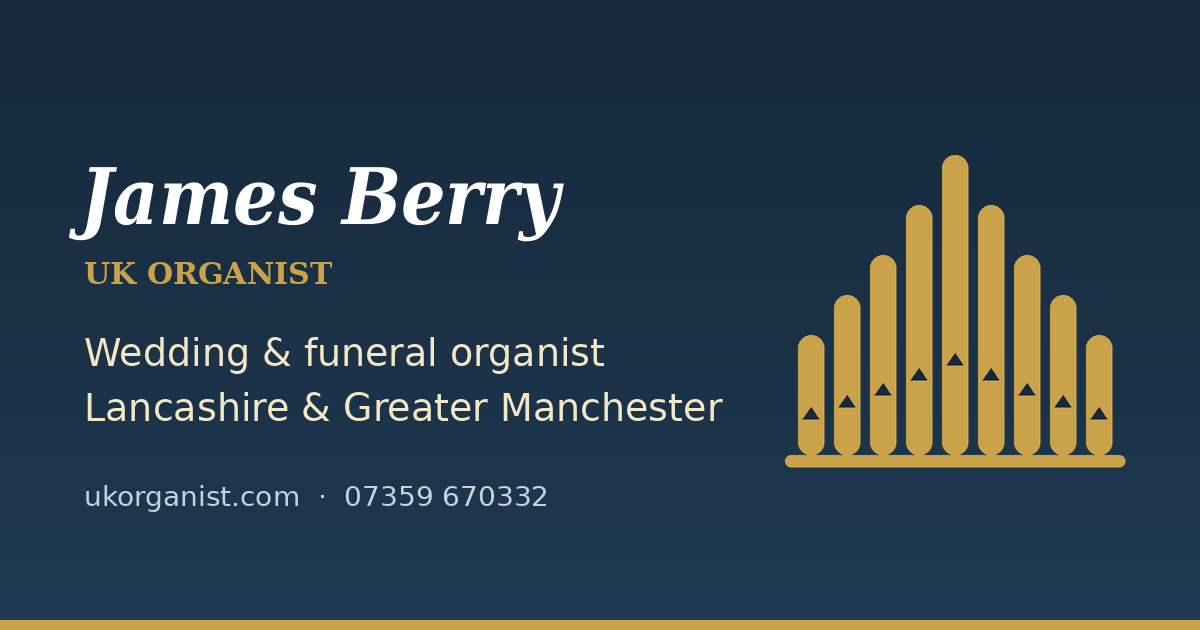
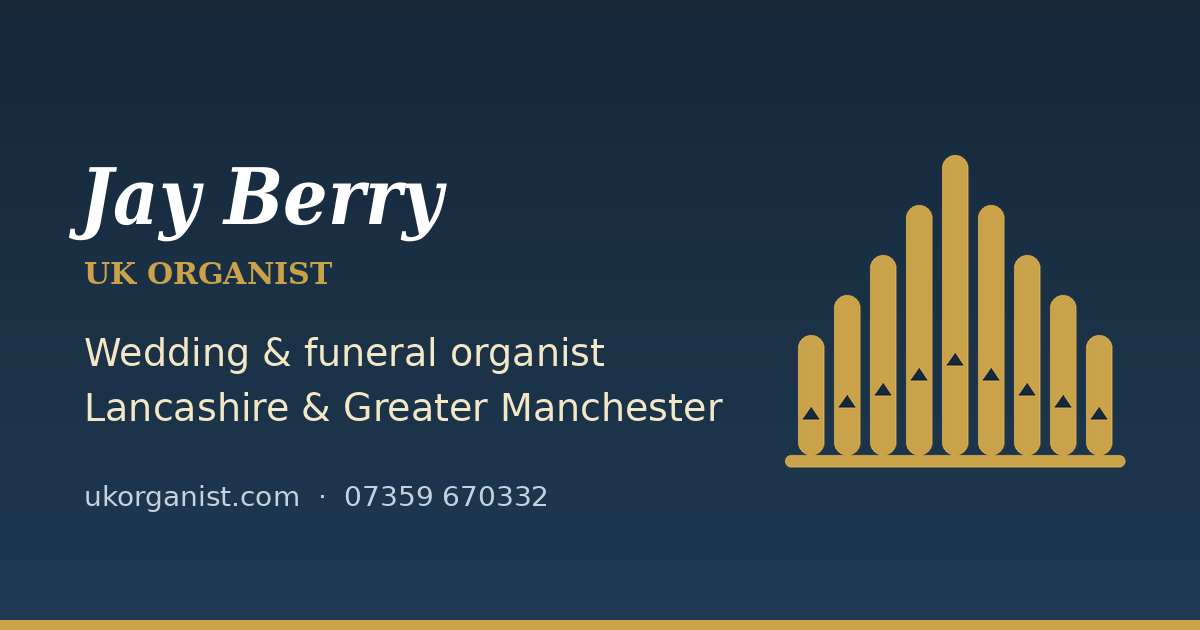
Use "Jay Berry" as the public name across the site
Customer-facing name changed from James to Jay everywhere (pages, menu,
schema, form messages, terms, social preview image) to match the email
signature and Google Business Profile. Phone stays 07359 670332 only.

Claude-Session: https://claude.ai/code/session_01FhjEBrdu82LaAVZ8G4aNxm

Changed region(s): [[0.1233, 0.2413, 0.4933, 0.3921]]

diff --git a/public/assets/site.js b/public/assets/site.js
@@ -17,7 +17,7 @@
 })();
 
 // Enquiry form. Each enquiry is sent to the "UKO Website Enquiries" Google Apps
-// Script (logs it in the UKO Enquiries sheet and emails James). "Send on WhatsApp"
+// Script (logs it in the UKO Enquiries sheet and emails Jay). "Send on WhatsApp"
 // also opens a ready-written WhatsApp message; if the script can't be reached,
 // "Send enquiry" falls back to opening the visitor's email app.
 (function () {
@@ -65,7 +65,7 @@
     if (!bad && form.elements.email.value && !form.elements.email.checkValidity()) bad = form.elements.email;
     if (bad) {
       var label = form.querySelector('label[for="' + bad.id + '"]').firstChild.textContent.trim();
-      show(bad.type === "email" ? "Please check your email address." : label + " is needed so James can check the date.", "error");
+      show(bad.type === "email" ? "Please check your email address." : label + " is needed so Jay can check the date.", "error");
       bad.focus();
       return;
     }
@@ -73,7 +73,7 @@
     var when = new Date(v("date") + "T12:00:00").toLocaleDateString("en-GB", { weekday: "long", day: "numeric", month: "long", year: "numeric" });
     var type = service.options[service.selectedIndex].text;
     var lines = [
-      "Hi James, I'd like to check your availability.",
+      "Hi Jay, I'd like to check your availability.",
       "",
       "Service: " + type,
       "Date: " + when + (v("time") ? " at " + v("time") : ""),
@@ -91,7 +91,7 @@
       // only allow this inside the click).
       send("WhatsApp").catch(function () {});
       window.open("https://wa.me/" + WA + "?text=" + encodeURIComponent(text), "_blank", "noopener");
-      show("Thank you — James has your enquiry. WhatsApp should also have opened with your message ready; press send there if you'd like to chat.", "success");
+      show("Thank you — Jay has your enquiry. WhatsApp should also have opened with your message ready; press send there if you'd like to chat.", "success");
       return;
     }
 
@@ -100,7 +100,7 @@
     send("Website")
       .then(function () {
         form.reset();
-        show("Thank you — your enquiry has been sent. James will be in touch soon, usually by phone or WhatsApp.", "success");
+        show("Thank you — your enquiry has been sent. Jay will be in touch soon, usually by phone or WhatsApp.", "success");
       })
       .catch(function () {
         var subject = type + " enquiry – " + when;

diff --git a/src/pages/index.html b/src/pages/index.html
@@ -1,5 +1,5 @@
 ---
-title: Wedding & Funeral Organist, Lancashire & Manchester | James Berry
+title: Wedding & Funeral Organist, Lancashire & Manchester | Jay Berry
 description: Professional church organist for weddings, funerals and services across Lancashire and Greater Manchester. 30+ years' experience, BBC Songs of Praise.
 nav: home
 ---
@@ -8,7 +8,7 @@ nav: home
     <div class="hero__copy">
       <p class="eyebrow">Organist for hire · Burnley · Blackburn · Bolton · Rochdale</p>
       <h1>Wedding &amp; Funeral Organist in Lancashire and Greater Manchester</h1>
-      <p class="lead">I'm James Berry, a professional church organist with over 30 years at the console. I play for weddings, funerals, memorial services, concerts and choral services — and I make sure the music is the part of the day nobody has to worry about.</p>
+      <p class="lead">I'm Jay Berry, a professional church organist with over 30 years at the console. I play for weddings, funerals, memorial services, concerts and choral services — and I make sure the music is the part of the day nobody has to worry about.</p>
       <div class="btns">
         <a class="btn btn--gold" href="/contact/">Check My Date</a>
         <a class="btn btn--outline-light" href="{{whatsapp}}">WhatsApp {{phone}}</a>
@@ -55,11 +55,11 @@ nav: home
 <section class="section section--mist">
   <div class="wrap split">
     <div>
-      <p class="eyebrow">Why book James</p>
+      <p class="eyebrow">Why book Jay</p>
       <h2>An experienced organist who knows how a service runs</h2>
       <p>Since my first church appointment in 1993, I've played for weddings, funerals and every kind of church service. I've been Organist and Choir Master at St John the Evangelist, Worsthorne, near Burnley, since 2007, and I've appeared on BBC's <em>Songs of Praise</em> and accompanied Choral Evensong at Blackburn Cathedral.</p>
       <p>That experience matters on the day: I arrive early, get to know the instrument, follow the clergy's cues and adapt if the bride is late or the hymns need an extra verse.</p>
-      <a class="text-link" href="/about/">Read more about James &rarr;</a>
+      <a class="text-link" href="/about/">Read more about Jay &rarr;</a>
     </div>
     <ul class="ticks">
       <li><strong>Reliable cover.</strong> If I'm ever ill, I arrange a competent deputy — or you get a full refund.</li>

diff --git a/src/pages/website-terms-of-use.html b/src/pages/website-terms-of-use.html
@@ -1,6 +1,6 @@
 ---
 title: Website Terms of Use | UK Organist
-description: The terms that apply when you browse and use ukorganist.com, the website of UK Organist Limited and organist James Berry.
+description: The terms that apply when you browse and use ukorganist.com, the website of UK Organist Limited and organist Jay Berry.
 crumb: Website terms of use
 ---
 <section class="hero hero--inner hero--slim">
@@ -13,7 +13,7 @@ crumb: Website terms of use
     <h2>1. Use of the website</h2>
     <p>The content of this website is for your general information and use only. It is subject to change without notice.</p>
     <h2>2. Intellectual property and copyright</h2>
-    <p>This website contains material owned by or licensed to us, including the design, layout, look, appearance, the UK Organist logo and graphics. You may not reproduce, copy or redistribute the logo or any media (including audio or video recordings of James Berry) without our express written permission. All trademarks reproduced on this website that are not our property, or licensed to us, are acknowledged.</p>
+    <p>This website contains material owned by or licensed to us, including the design, layout, look, appearance, the UK Organist logo and graphics. You may not reproduce, copy or redistribute the logo or any media (including audio or video recordings of Jay Berry) without our express written permission. All trademarks reproduced on this website that are not our property, or licensed to us, are acknowledged.</p>
     <h2>3. Accuracy of information</h2>
     <p>Neither we nor any third parties give any warranty or guarantee as to the accuracy, timeliness, performance, completeness or suitability of the information and materials on this website for any particular purpose. You acknowledge that such information and materials may contain inaccuracies or errors, and we expressly exclude liability for any such inaccuracies or errors to the fullest extent permitted by law.</p>
     <h2>4. Booking forms and enquiries</h2>

diff --git a/src/pages/terms-conditions-of-booking.html b/src/pages/terms-conditions-of-booking.html
@@ -1,17 +1,17 @@
 ---
 title: Terms & Conditions of Booking | UK Organist
-description: Terms and conditions for booking James Berry through UK Organist Limited: fees, deposits, cancellations, music deadlines, rehearsals and recording fees.
+description: Terms and conditions for booking Jay Berry through UK Organist Limited: fees, deposits, cancellations, music deadlines, rehearsals and recording fees.
 crumb: Terms of booking
 ---
 <section class="hero hero--inner hero--slim">
-  <div class="wrap"><h1>Terms &amp; Conditions of Booking</h1><p class="lead">UK Organist Limited · Company number {{companyNo}} · Director: James Berry</p></div>
+  <div class="wrap"><h1>Terms &amp; Conditions of Booking</h1><p class="lead">UK Organist Limited · Company number {{companyNo}} · Director: Jay Berry</p></div>
 </section>
 <section class="section section--tight">
   <div class="wrap narrow prose">
     <h2>1. Definitions</h2>
     <ul>
       <li><strong>"The Company":</strong> UK Organist Limited.</li>
-      <li><strong>"The Organist":</strong> James Berry (or a Company-approved deputy).</li>
+      <li><strong>"The Organist":</strong> Jay Berry (or a Company-approved deputy).</li>
       <li><strong>"The Client":</strong> the individual, couple or organisation booking the service.</li>
       <li><strong>"The Event":</strong> the specific wedding, funeral, service or concert defined in the booking.</li>
     </ul>

diff --git a/src/layout.html b/src/layout.html
@@ -20,7 +20,7 @@
 <!--@MAIN-->
 </main>
 <!--@FOOTER-->
-<a class="wa-float" href="{{whatsapp}}" aria-label="WhatsApp James on {{phone}}"><svg viewBox="0 0 24 24" width="28" height="28" aria-hidden="true"><path fill="currentColor" d="M12 2a10 10 0 0 0-8.6 15.1L2 22l5-1.3A10 10 0 1 0 12 2Zm0 18.2a8.2 8.2 0 0 1-4.2-1.2l-.3-.2-3 .8.8-2.9-.2-.3A8.2 8.2 0 1 1 12 20.2Zm4.5-6.1c-.2-.1-1.5-.7-1.7-.8-.2-.1-.4-.1-.6.1l-.8 1c-.1.2-.3.2-.5.1a6.7 6.7 0 0 1-3.3-2.9c-.3-.4.2-.4.7-1.4.1-.2 0-.3 0-.5l-.8-1.8c-.2-.5-.4-.4-.6-.4h-.5a1 1 0 0 0-.7.3 3 3 0 0 0-.9 2.2 5.2 5.2 0 0 0 1.1 2.8 11.9 11.9 0 0 0 4.6 4c1.7.7 2.3.8 3.2.7.5-.1 1.5-.6 1.8-1.2.2-.6.2-1.1.1-1.2l-.5-.3Z"/></svg></a>
+<a class="wa-float" href="{{whatsapp}}" aria-label="WhatsApp Jay on {{phone}}"><svg viewBox="0 0 24 24" width="28" height="28" aria-hidden="true"><path fill="currentColor" d="M12 2a10 10 0 0 0-8.6 15.1L2 22l5-1.3A10 10 0 1 0 12 2Zm0 18.2a8.2 8.2 0 0 1-4.2-1.2l-.3-.2-3 .8.8-2.9-.2-.3A8.2 8.2 0 1 1 12 20.2Zm4.5-6.1c-.2-.1-1.5-.7-1.7-.8-.2-.1-.4-.1-.6.1l-.8 1c-.1.2-.3.2-.5.1a6.7 6.7 0 0 1-3.3-2.9c-.3-.4.2-.4.7-1.4.1-.2 0-.3 0-.5l-.8-1.8c-.2-.5-.4-.4-.6-.4h-.5a1 1 0 0 0-.7.3 3 3 0 0 0-.9 2.2 5.2 5.2 0 0 0 1.1 2.8 11.9 11.9 0 0 0 4.6 4c1.7.7 2.3.8 3.2.7.5-.1 1.5-.6 1.8-1.2.2-.6.2-1.1.1-1.2l-.5-.3Z"/></svg></a>
 <script src="/assets/site.js" defer></script>
 </body>
 </html>

diff --git a/src/partials/footer.html b/src/partials/footer.html
@@ -2,7 +2,7 @@
   <div class="wrap cta-band__inner">
     <div>
       <h2>Is your date free?</h2>
-      <p>Tell James the date, venue and type of service. You'll get a clear, personal quote — no obligation.</p>
+      <p>Tell Jay the date, venue and type of service. You'll get a clear, personal quote — no obligation.</p>
     </div>
     <div class="btns">
       <a class="btn btn--gold" href="/contact/">Check Availability</a>
@@ -13,7 +13,7 @@
 <footer class="site-footer">
   <div class="wrap site-footer__grid">
     <div>
-      <p class="site-footer__brand">James Berry <span>UK Organist</span></p>
+      <p class="site-footer__brand">Jay Berry <span>UK Organist</span></p>
       <p>Professional church organist for weddings, funerals, memorial services, concerts and choral services across Lancashire and Greater Manchester.</p>
       <p><a href="{{tel}}">{{phone}}</a><br><a href="{{mailto}}">{{email}}</a></p>
     </div>
@@ -40,7 +40,7 @@
     <div>
       <p class="site-footer__head">Information</p>
       <ul>
-        <li><a href="/about/">About James</a></li>
+        <li><a href="/about/">About Jay</a></li>
         <li><a href="/contact/">Contact &amp; bookings</a></li>
         <li><a href="/terms-conditions-of-booking/">Terms of booking</a></li>
         <li><a href="/privacy-policy/">Privacy policy</a></li>

diff --git a/src/partials/header.html b/src/partials/header.html
@@ -8,7 +8,7 @@
   <div class="wrap site-header__inner">
     <a class="brand" href="/" aria-label="UK Organist home">
       <img class="brand__mark" src="/assets/logo-mark.svg" alt="" width="44" height="44">
-      <span class="brand__text"><span class="brand__name">James Berry</span><span class="brand__sub">UK Organist</span></span>
+      <span class="brand__text"><span class="brand__name">Jay Berry</span><span class="brand__sub">UK Organist</span></span>
     </a>
     <button class="nav-toggle" type="button" aria-expanded="false" aria-controls="site-nav">
       <span class="nav-toggle__bars" aria-hidden="true"></span><span class="nav-toggle__label">Menu</span>
@@ -19,7 +19,7 @@
         <li><a href="/funerals/" data-nav="funerals">Funerals</a></li>
         <li><a href="/services/" data-nav="services">Services &amp; Concerts</a></li>
         <li><a href="/areas/" data-nav="areas">Areas</a></li>
-        <li><a href="/about/" data-nav="about">About James</a></li>
+        <li><a href="/about/" data-nav="about">About Jay</a></li>
         <li><a href="/faq/" data-nav="faq">FAQs</a></li>
       </ul>
       <a class="btn btn--small" href="/contact/" data-nav="contact">Check Availability</a>

diff --git a/src/pages/about.html b/src/pages/about.html
@@ -1,13 +1,13 @@
 ---
-title: About James Berry | Organist & Choir Master, Worsthorne
-description: James Berry has played the organ since 1993. Organist & Choir Master at St John's, Worsthorne, with BBC Songs of Praise and Blackburn Cathedral experience.
+title: About Jay Berry | Organist & Choir Master, Worsthorne
+description: Jay Berry has played the organ since 1993. Organist & Choir Master at St John's, Worsthorne, with BBC Songs of Praise and Blackburn Cathedral experience.
 nav: about
-crumb: About James
+crumb: About Jay
 ---
 <section class="hero hero--inner">
   <div class="wrap">
-    <p class="eyebrow">About James</p>
-    <h1>James Berry: Organist, Choir Master and Freelance Accompanist</h1>
+    <p class="eyebrow">About Jay</p>
+    <h1>Jay Berry: Organist, Choir Master and Freelance Accompanist</h1>
     <p class="lead">Over 30 years of church music across Lancashire and Greater Manchester — and it all started with a switch marked "Discus".</p>
   </div>
 </section>

diff --git a/src/pages/faq.html b/src/pages/faq.html
@@ -1,5 +1,5 @@
 ---
-title: Organist FAQs | Fees, Booking & Music | James Berry, UK Organist
+title: Organist FAQs | Fees, Booking & Music | Jay Berry, UK Organist
 description: Answers about booking an organist for a wedding or funeral: fees, deposits, rehearsals, recording fees, short notice, music choices and Sunday availability.
 nav: faq
 crumb: FAQs
@@ -8,7 +8,7 @@ crumb: FAQs
   <div class="wrap">
     <p class="eyebrow">Questions &amp; answers</p>
     <h1>Booking an Organist: Frequently Asked Questions</h1>
-    <p class="lead">Everything you need to know about booking James for a wedding, funeral, service or concert. Can't see your question? <a href="/contact/">Just ask</a>.</p>
+    <p class="lead">Everything you need to know about booking Jay for a wedding, funeral, service or concert. Can't see your question? <a href="/contact/">Just ask</a>.</p>
   </div>
 </section>
 

diff --git a/src/partials/enquiry-form.html b/src/partials/enquiry-form.html
@@ -51,6 +51,6 @@
     <button class="btn btn--wa" type="submit" value="whatsapp">Send on WhatsApp</button>
     <button class="btn btn--ghost" type="submit" value="email">Send enquiry</button>
   </div>
-  <p class="form-note">Either button sends your enquiry to James. "Send on WhatsApp" also opens a ready-written WhatsApp message if you'd like to chat there. Sending an enquiry doesn't commit you to anything — see the <a href="/privacy-policy/">privacy policy</a>.</p>
+  <p class="form-note">Either button sends your enquiry to Jay. "Send on WhatsApp" also opens a ready-written WhatsApp message if you'd like to chat there. Sending an enquiry doesn't commit you to anything — see the <a href="/privacy-policy/">privacy policy</a>.</p>
   <noscript><p class="form-note">This form needs JavaScript. Please WhatsApp or call {{phone}}, or email {{email}}.</p></noscript>
 </form>

diff --git a/src/pages/contact.html b/src/pages/contact.html
@@ -1,6 +1,6 @@
 ---
-title: Book an Organist | Check Availability | James Berry, UK Organist
-description: Check James Berry's availability for your wedding, funeral, service or concert. Send an enquiry, call or WhatsApp 07359 670332, or email jb@ukorganist.com.
+title: Book an Organist | Check Availability | Jay Berry, UK Organist
+description: Check Jay Berry's availability for your wedding, funeral, service or concert. Send an enquiry, call or WhatsApp 07359 670332, or email jb@ukorganist.com.
 nav: contact
 crumb: Contact & bookings
 ---

diff --git a/src/pages/areas.html b/src/pages/areas.html
@@ -1,6 +1,6 @@
 ---
 title: Areas Covered | Organist in Lancashire & Greater Manchester
-description: James Berry plays for weddings, funerals and services across Burnley, Pendle, Blackburn, Accrington, Clitheroe, Bolton, Bury and Rochdale. See all the areas covered.
+description: Jay Berry plays for weddings, funerals and services across Burnley, Pendle, Blackburn, Accrington, Clitheroe, Bolton, Bury and Rochdale. See all the areas covered.
 nav: areas
 crumb: Areas covered
 ---
